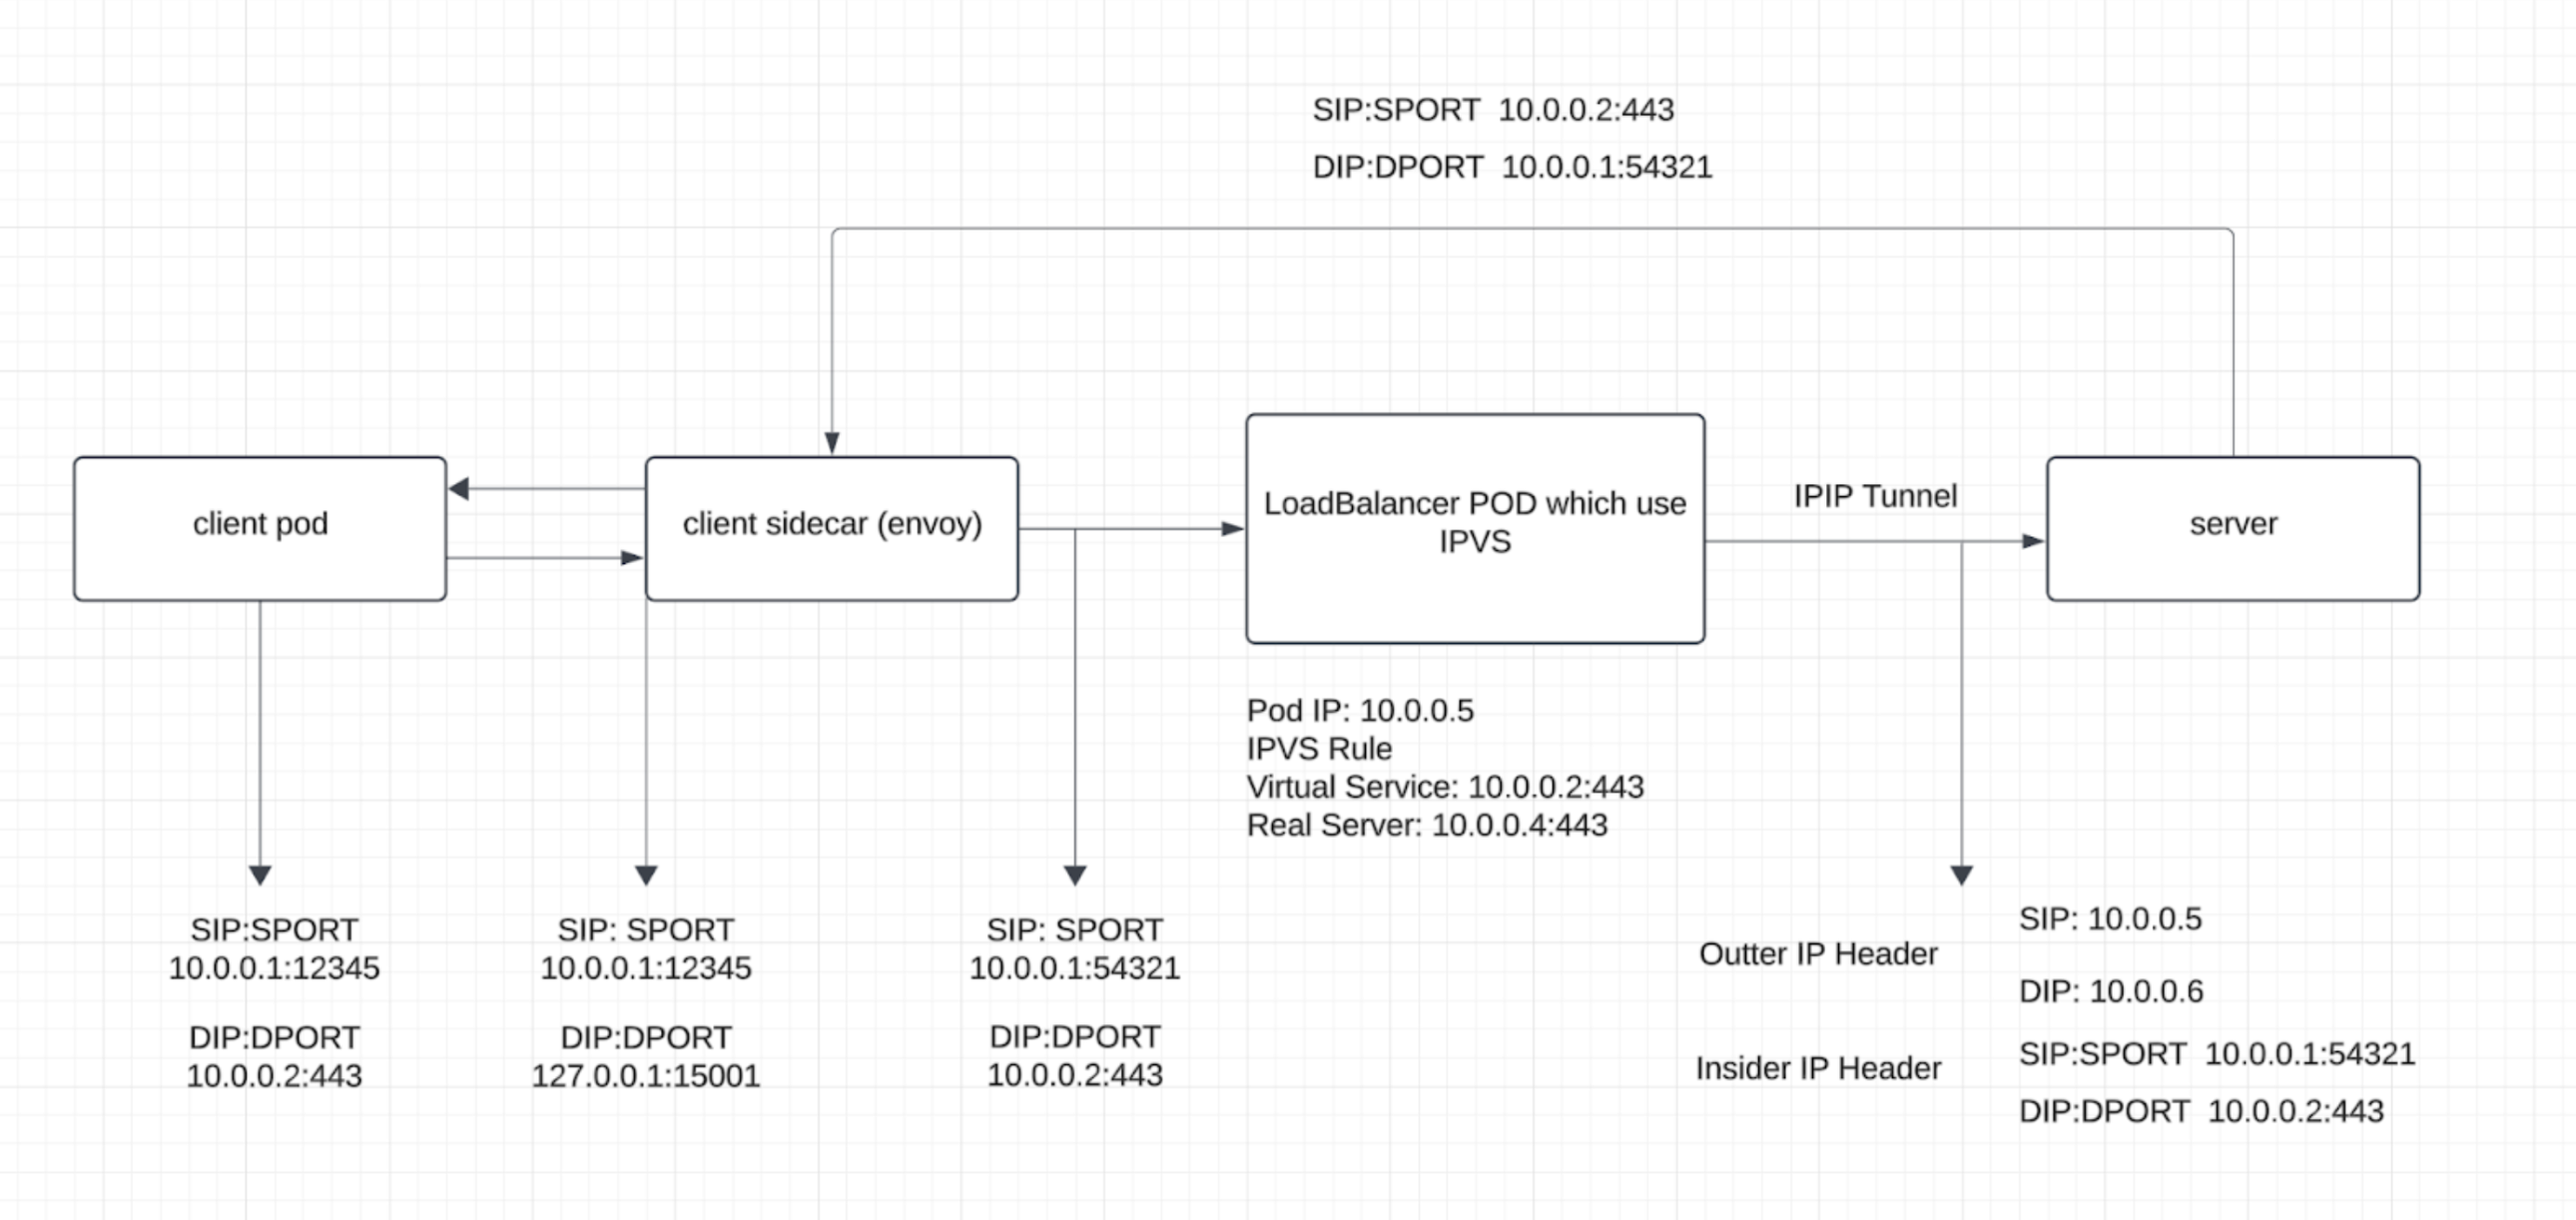
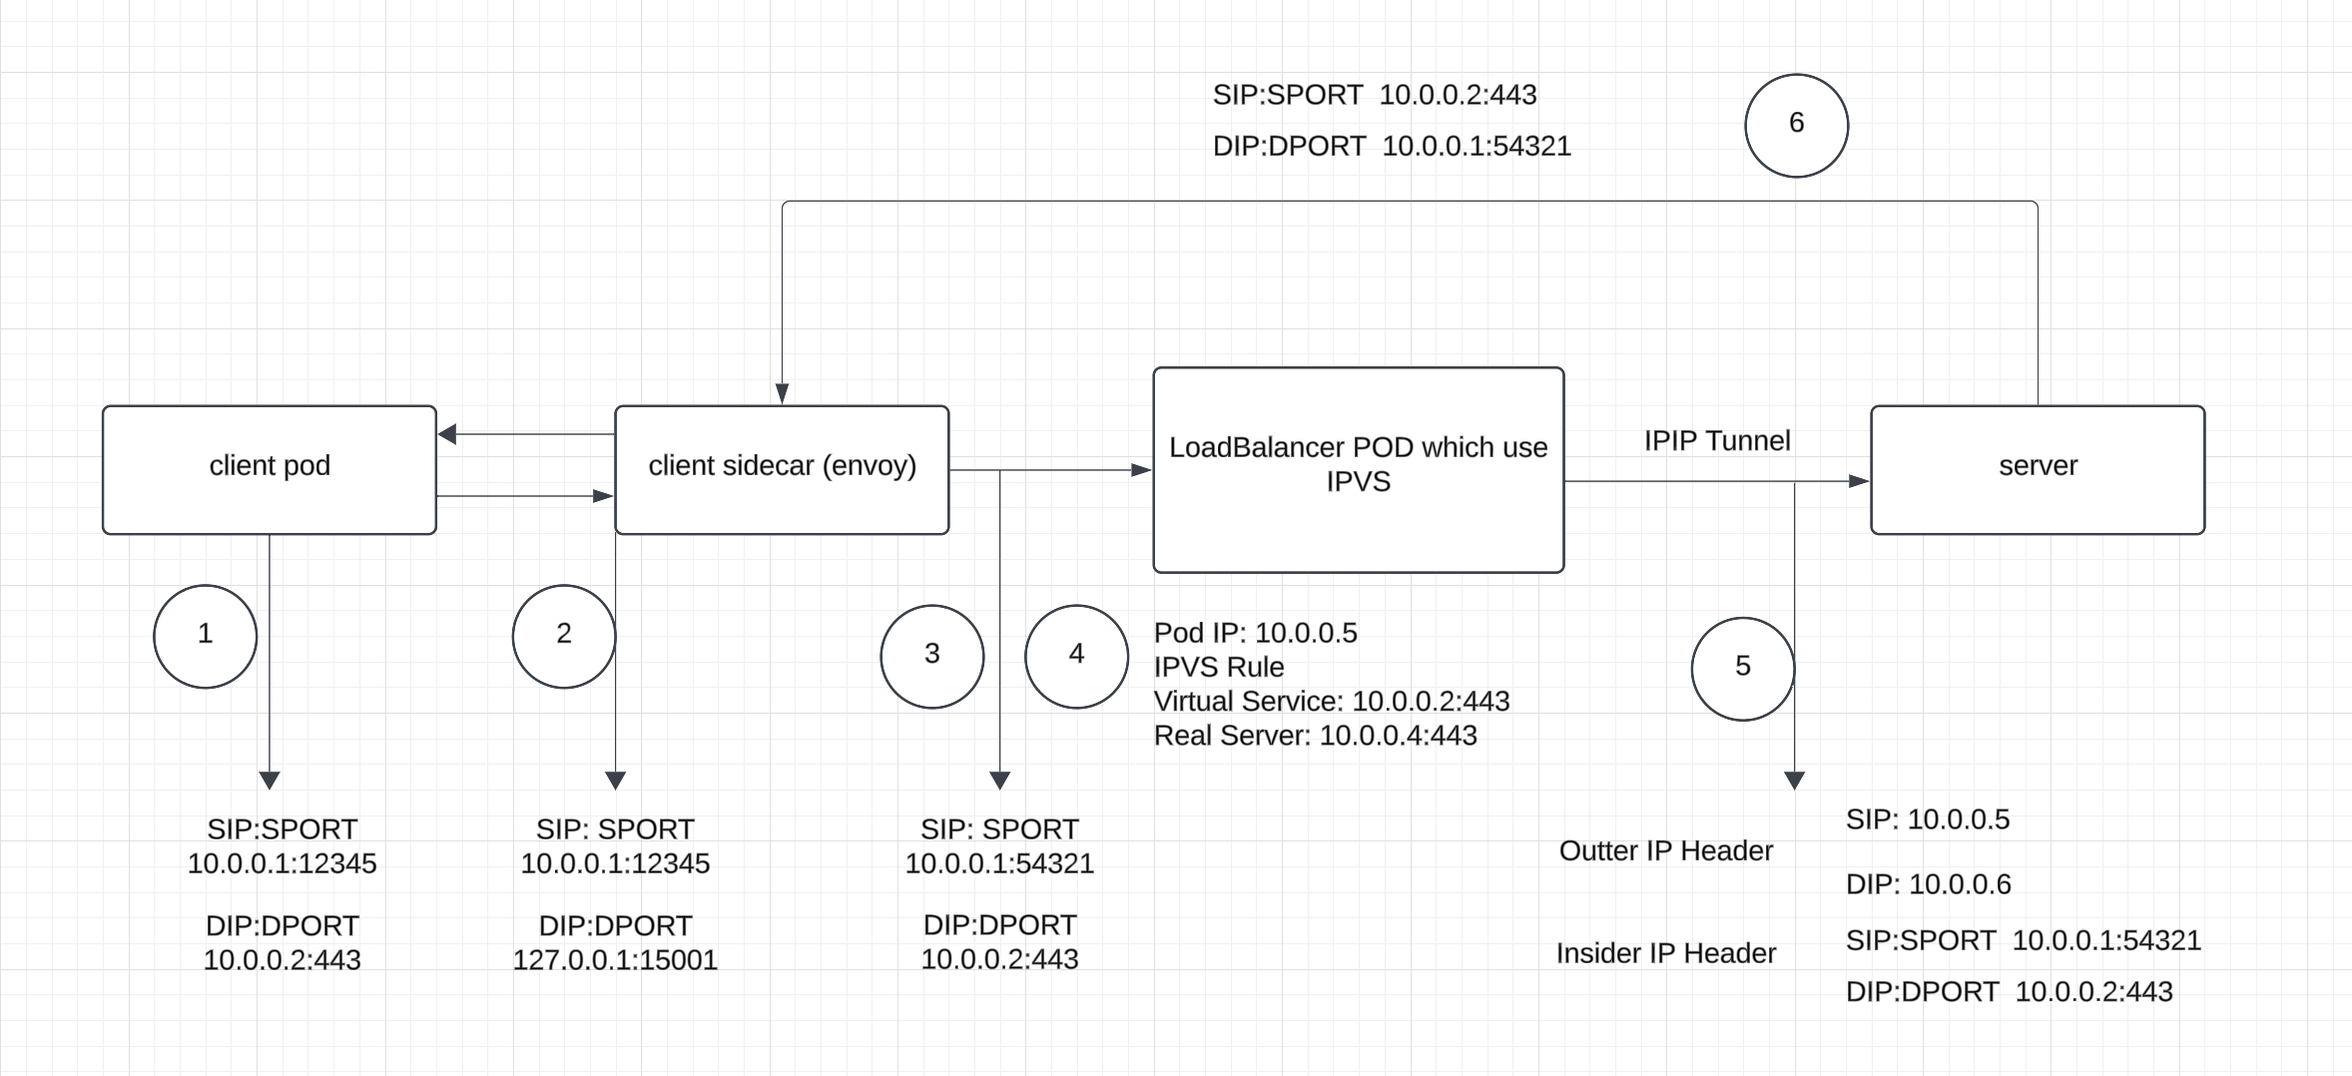
Version 2

diff --git a/_posts/2024-12-31-Request-delay-200ms-becauseof-MTU-setting-in-IPVS-Loadbalancer-with-IPIP-forwarding-method.md b/_posts/2024-12-31-Request-delay-200ms-becauseof-MTU-setting-in-IPVS-Loadbalancer-with-IPIP-forwarding-method.md
@@ -10,8 +10,7 @@ excerpt: IPVS IPIP ICMP LINUX
 
 ## Backgroud
 
-In our network environment, we use IPVS as a load balancer to provide virtual services and the IPIP protocol to preserve client IPs. The traffic flow is as follows:
-
+In our network environment, we use IPVS as a load balancer to provide virtual services, and we use the IPIP protocol to preserve client IPs. The traffic flow is as follows:
 
 ![](/assets/2024-12-31-IPVS-IPIP-FLOW.png)
 
@@ -19,17 +18,16 @@ In our network environment, we use IPVS as a load balancer to provide virtual se
 
 The client pod has envoy sidecar injected. 
 
-Recently we have some customers that reported  their request has a high timeout rate after they move to this network flow.
+Recently, some customers have reported that their requests have a high timeout rate after moving to this network flow.
 
 
-- The client create a new request to VIP 10.0.0.2:443 with client IP 10.0.0.1 and port 12345 (Use  12345 as an example)
-  The connection is 10.0.0.1:12345 → 10.0.0.2:443
+1. The client creates a new connection to the VIP 10.0.0.2:443 with the client IP 10.0.0.1 and port 12345 (using 12345 as an example). The connection is 10.0.0.1:12345 → 10.0.0.2:443.
 
-- Iptables rules intercept the request and redirect the traffic to port 15001, changing the connection's destination IP and port to 127.0.0.1 and 15006. The connection now is 10.0.0.1:12345 → 127.0.0.1:15001.
+2. Iptables rules intercept the request and redirect the traffic to port 15001, changing the connection's destination IP and port to 127.0.0.1 and 15006. The connection is now 10.0.0.1:12345 → 127.0.0.1:15006.
 
-- The client sidecar Envoy receives the request from the lo interface. Since outbound traffic is passthrough, Envoy does not perform any checks at the HTTP/HTTPS layer and creates a new connection to destination 10.0.0.2. The request is forwarded to VIP 10.0.0.2 with the connection 10.0.0.1:54321 → 10.0.0.2:443.
+3. After the TCP handshake succeeds, the client sends an SSL hello on the established connection. The sidecar's Envoy receives the request from the loopback (lo) interface. Since the outbound traffic is passthrough, Envoy does not perform any checks at the HTTP/HTTPS layer and creates a new connection to the destination 10.0.0.2. The request is forwarded to the VIP 10.0.0.2 with the connection 10.0.0.1:54321 → 10.0.0.2:443.
 
-- The load balancer uses IPVS with the IPIP packet forwarding method and has the following IPVS rule:
+4. The load balancer uses IPVS with the IPIP packet forwarding method and has the following IPVS rule:
 
 ```
 ipvsadm -Ln -t 10.0.0.2:443
@@ -41,50 +39,49 @@ TCP  10.0.0.2:443 mh
   -> 10.0.0.8:443                 Tunnel    1      0          0
 ```
 
-- The request is forwarded to a real server with an IPIP tunnel header, where the outer IP header has source IP 10.0.0.5 (load balancer's IP) and destination IP 10.0.0.6 (real server's IP), while the inner IP/TCP header remains unchanged.
+5. The TCP SYN packet from 10.0.0.1:54321 to 10.0.0.2:443 is forwarded to a real server with an IPIP tunnel header, where the outer IP header has the source IP 10.0.0.5 (load balancer's IP) and the destination IP 10.0.0.6 (real server's IP), while the inner IP/TCP header remains unchanged..
 
 
-- After receiving the request, the real server strips the outer IP header, processes the request, and sends a response directly to the client, bypassing the load balancer.
+6. After receiving the TCP SYN packet from 10.0.0.1:54321 to 10.0.0.2:443, the real server strips the outer IP header, processes the request, and sends TCP SYN,ACK directly to the client, bypassing the load balancer
 
 The sidecar(envoy) in the client side and Loadbalancer only handles the request in the TCP layer, so the TLS and HTTP interaction happens between the client and server directly. 
 
 
 ## Tcpdump Analysis
 
-After TCPDUMP for the request to check for why the request was delayed. 
-Here is the dump result:
+We used TCPDUMP to check why the request was delayed, here is the dump result:
 
 ![](/assets/2024-12-31-TCPDUMP-request-B.png)
 
 
-This is the tcpdump file captured from lo and eth0 interface in the client side.
+This is the tcpdump file captured from the 'lo' and 'eth0' interfaces on the client side..
 
--  No 257571 to 257797 packets are the TCP and TLS handshake packets.
--  The No 257858 packet is the packet sent from the client and received in the lo interface.
--  Instead of forwarding this packet to 10.0.0.2 directly,  there are 4 ICMP packets with the source IP 10.0.0.1 and destination IP 10.0.0.1 captured.
+-  Packets numbered 257571 to 257797 are TCP and TLS handshake packets.
+-  Packet number 257858 is sent from the client and received on the 'lo' interface.
+-  Instead of forwarding this packet directly to 10.0.0.2, there are four ICMP packets with the source IP 10.0.0.1 and destination IP 10.0.0.1 that were captured..
    The details of this ICMP packet:
 
   ![](/assets/2024-12-31-ICMP-type3-code4.png) 
 
--  The No 259044 packet is the first packet sent from 10.0.0.1 to 10.0.0.2. The timestamp is 09:05:53.638466, which is about 207.76 ms delay compared with  09:05:53.430710  (No 257858 packet)
+-  Packet number 259044 is the first packet sent from 10.0.0.1 to 10.0.0.2. The timestamp is 09:05:53.638466, indicating a delay of approximately 207.76 ms compared to the timestamp 09:05:53.430710 of packet number 257858.
 
-But the weird thing is, there was another request almost at the same time, but have different behavior 
+But the strange thing is, there was another request almost at the same time, but it exhibited different behavior. 
 
 ![](/assets/2024-12-31-TCPDUMP-request-A.png)
 
 
--  No 257563 to 257776 packets are the TCP and TLS handshake packets
--  The No 257809 packet is the packet sent from the client and received in the lo interface. 
--  Then No 257812 packet is the packet that passthrough the No 257809 packet to 10.0.0.2 
--  Then a destination unreachable ICMP packet received with source IP 10.0.0.2 to client 10.0.0.1 (No 257815 Packet)
--  No 257819 Packet is the retransmission packet of No 257812 with only 09:05:53.430290 - 09:05:53.430181 = 0.1 ms
+-  Packets numbered 257563 to 257776 are the TCP and TLS handshake packets.
+-  Packet number 257809 is the packet sent from the client and received on the loopback (lo) interface. 
+-  Then, packet number 257812 is the packet that forwards the contents of packet number 257809 to 10.0.0.2.
+-  Then, a destination unreachable ICMP packet was received from source IP 10.0.0.2 to client 10.0.0.1 (packet number 257815).
+-  Packet number 257819 is the retransmission of packet number 257812, with only a 0.1 ms time difference between 09:05:53.430290 and 09:05:53.430181.
 
-This request (request A in the following content) is a bit earlier  than the previous request (request B in the following content) which has issues. So it looks like the No 257815 Packet triggered something in the TCP stack and finally  made the 200ms delay.
+This request (referred to as request A below) occurred slightly earlier than the previous request (referred to as request B below), which encountered issues. It seems that packet number 257815 triggered something in the TCP stack, ultimately causing a 200 ms delay.
 
 
 ## ICMP destination unreachable packet
 
-This error message occurs when the size of a packet is larger than the MTU of the interface that needs to route it.  Since IPVS will add an extra IP header (IPIP tunnel), it will add 20 bytes to the original packet, which will change the packet length, and then if the packet is marked with DF (don’t frag), then it will send the ICMP destination unreachable packet to the client. 
+This error message occurs when the size of a packet exceeds the Maximum Transmission Unit (MTU) of the interface that needs to route it. Since IP Virtual Server (IPVS) adds an extra IP header for IPIP tunneling, it increases the packet size by 20 bytes. This change in packet length can lead to issues if the packet is marked with the 'Don't Fragment' (DF) flag. In such cases, IPVS  will send an ICMP Destination Unreachable message back to the client.. 
 
 
 https://elixir.bootlin.com/linux/v5.15.126/source/net/netfilter/ipvs/ip_vs_xmit.c#L239-L249
@@ -134,24 +131,28 @@ static inline bool ensure_mtu_is_adequate(struct netns_ipvs *ipvs, int skb_af,
 
 ```
 
-From the details of this ICMP packet, it also contains the MTU information, which is 1480.
+The details of this ICMP packet also include the MTU information, which is 1480..
 
  ![](/assets/2024-12-31-ICMP-type3-code4.png)
 
-The MTU setting is 1500 in any of the hop the whole traffic flow.  IPIP tunnels need to have another IP header injected, which is 20 bytes, that is why IPVS ask the client to send packets based on MTU 1480. 
+The MTU setting is 1500 at each hop in the entire traffic flow. However, IPIP tunnels require the injection of an additional IP header, which is 20 bytes. This is why IPVS requests the client to send packets with an MTU of 1480. 
 
-So if we change the interface’s MTU or route MTU to be 1480 in the client or server side, then this issue can be resolved. But there are still something that  not resolved:
-
+If we change the MTU of the interface or the route to 1480 on either the client or server side, this issue can be resolved. But there are still something not clear:
 
 
 ## Question 1: How does the ICMP destination unreachable packet impact the client behavior?
 
-Let is check for the source code for how to handle the ICMP destination unreachable packet (FRAG NEEDED)  packets  in Linux
+Let's examine the source code to understand how Linux handles ICMP Destination Unreachable (FRAG NEEDED) packets.
 
-https://elixir.bootlin.com/linux/v5.15.126/source/net/ipv4/tcp_ipv4.c#L545-L561
+You can find the relevant code here:
 
-After receive the ICMP unreachable packet,  https://elixir.bootlin.com/linux/v5.15.126/source/net/ipv4/icmp.c#L858 
-Then it will start to change MTU by icmp_socket_deliver() →tcp_v4_err()
+[tcp-shaker](https://github.com/tevino/tcp-shaker)
+
+[tcp_ipv4.c](https://elixir.bootlin.com/linux/v5.15.126/source/net/ipv4/tcp_ipv4.c#L545-L561)
+[icmp.c](https://elixir.bootlin.com/linux/v5.15.126/source/net/ipv4/icmp.c#L858 )
+
+Upon receiving an ICMP Unreachable packet, the system begins to adjust the MTU through the icmp_socket_deliver() function, which calls tcp_v4_err().
+
 
 ```
 	if (code == ICMP_FRAG_NEEDED) { /* PMTU discovery (RFC1191) */
@@ -189,10 +190,13 @@ Then it will start to change MTU by icmp_socket_deliver() →tcp_v4_err()
 		}
 ```
 
-If the sock is not held by user, then it will reduce the MTU directly by tcp_v4_mtu_reduced()
-But if the the tcp socket is held by user, then it will set TCP small queue flags TCP_MTU_REDUCED_DEFERRED, after socket released by userspace, tcp_release_cb() will be called to handle for the tsq, and tcp_v4_mtu_reduced() will be called. 
+If the socket is not held by user, the MTU is reduced immediately using tcp_v4_mtu_reduced(). However, if the TCP socket is held by  user, the TCP small queue flag TCP_MTU_REDUCED_DEFERRED will be set. Once the socket is released by user, tcp_release_cb() is called to process the queue, and tcp_v4_mtu_reduced() is invoked.
 
-https://elixir.bootlin.com/linux/v5.15.126/source/net/ipv4/tcp_output.c#L1112-L1115
+You can find more details here:
+
+[tcp_output.c](https://elixir.bootlin.com/linux/v5.15.126/source/net/ipv4/tcp_output.c#L1112-L1115)
+
+
 So after the ICMP packet has been handled, the route MTU will be changed to 1480 and linux kernel will keep this MTU cache for 600s.
 
 
@@ -210,12 +214,11 @@ net.ipv6.route.mtu_expires = 600
 
 
 
-## Question 2:   Why there are multiple ICMP destination unreachable packet (FRAG NEEDED)  packets with the source IP = destination IP
+## Question 2:   Why are there multiple ICMP Destination Unreachable (FRAG NEEDED) packets with the source IP equal to the destination IP?
 
 
 
-Let’s trace the kernel stack of function icmp_send((skb, ICMP_DEST_UNREACH, ICMP_FRAG_NEEDED, htonl(mtu)) 
-icmp_send() is the function in the Linux kernel that sends this ICMP packet, by tracing it, we can see how this  is  triggered?
+Let's trace the kernel stack of the function icmp_send(skb, ICMP_DEST_UNREACH, ICMP_FRAG_NEEDED, htonl(mtu)). The icmp_send() function in the Linux kernel is responsible for sending this ICMP packet. By tracing it, we can understand how this is triggered:
 
 
 ```
@@ -245,12 +248,11 @@ icmp_send() is the function in the Linux kernel that sends this ICMP packet, by 
 
 ```
 
-From the call stack, we can see that It checks the route MTU and tries to IP fragment, if DF bit is set in the IP header, then kernel will send the ICMP packet with type: 3 (ICMP_DEST_UNREACH) and code: 4 (ICMP_FRAG_NEEDED).
+From the call stack, we can see that it checks the route MTU and attempts to perform IP fragmentation. If the DF (Don't Fragment) bit is set in the IP header, the kernel will send an ICMP packet with type 3 (ICMP_DEST_UNREACH) and code 4 (ICMP_FRAG_NEEDED).
 
-There were two requests almost at the same time. The first request will trigger the ICMP destination unreachable packet from the load balancer, and then it will change the route MTU to be 1480. Then the second request, which do the MSS negotiation based on MTU 1500 and but  route MTU had been changed to 1480 on the fly,  so when the packet length > 1500, then ICMP packet with type: 3 (ICMP_DEST_UNREACH) and code: 4 (ICMP_FRAG_NEEDED)  will be sent in kernel with the source IP == destination IP.
+There were two requests occurring almost simultaneously. The first request triggers the ICMP Destination Unreachable packet from the load balancer, which then changes the route MTU to 1480. The second request performs MSS (Maximum Segment Size) negotiation based on an MTU of 1500, but the route MTU has already been changed to 1480. Thus, when the packet length exceeds 1500, an ICMP packet with type 3 (ICMP_DEST_UNREACH) and code 4 (ICMP_FRAG_NEEDED) is sent from the kernel with the source IP equal to the destination IP.
 
-If we check for the statistics in linux kernel by netstat,  we can see that there are some statistics for this.
-
+If we examine the statistics in the Linux kernel using netstat, we can see some relevant data:
 ```
 Icmp:
     6957 ICMP messages received
@@ -265,8 +267,7 @@ Icmp:
         time exceeded: 3536
 ```
 
-The destination unreachable: 6940 in ICMP input histogram is for the statistics when receiving the ICMP type: 3 (ICMP_DEST_UNREACH) and code: 4 (ICMP_FRAG_NEEDED), basically for the case like request A.  
-The destination unreachable: 65 in ICMP output histogram is for the statistics when sending  the ICMP type: 3 (ICMP_DEST_UNREACH) and code: 4 (ICMP_FRAG_NEEDED), basically for the case like request A.  
+The "destination unreachable: 6940" in the ICMP input histogram represents the statistics for receiving ICMP type 3 (ICMP_DEST_UNREACH) and code 4 (ICMP_FRAG_NEEDED), typically for cases like request A. The "destination unreachable: 65" in the ICMP output histogram represents the statistics for sending ICMP type 3 (ICMP_DEST_UNREACH) and code 4 (ICMP_FRAG_NEEDED), also typically for cases like request B.
 
 
 
